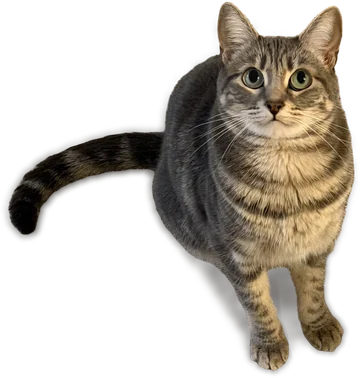
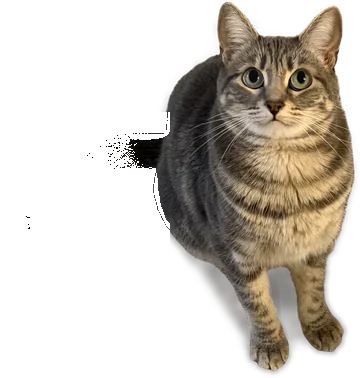
Candy shimeji: tail flick, dragging, close until reload
- Clicking or tapping anywhere makes her tail tip flick inward and settle
  back (6-frame sprite, about half a second; skipped with reduced motion).
- She can be dragged by her silhouette; clicks on the see-through parts
  of her box still reach the page below.
- The close button now hides her only until the page is reloaded.
- Fade in once the cat and both sprites have loaded.

Changed region(s): [[0.0, 0.291, 0.4889, 0.6402]]

diff --git a/_includes/candy-shimeji.html b/_includes/candy-shimeji.html
@@ -1,20 +1,34 @@
 {% include base_path %}
-<!-- Candy, a little shimeji in the bottom-right corner whose eyes follow the pointer.
-     candy.webp is the cat (2x of the display size); candy-eyes.webp holds the eye region for each gaze
-     (looking at you, then n, ne, e, se, s, sw, w, nw), side by side. -->
+<!-- Candy, a little shimeji in the bottom-right corner: her eyes follow the pointer, her tail flicks when
+     you click or tap, and she can be dragged around.
+     candy.webp is the cat (2x of the display size). The sprites hold, side by side, the eye region for each
+     gaze (looking at you, then n, ne, e, se, s, sw, w, nw) and the tail for each keyframe of the flick. -->
 <div id="candy-shimeji" class="candy-shimeji">
   <div class="candy-shimeji__cat" aria-hidden="true">
     <img src="{{ base_path }}/images/shimeji/candy.webp" width="180" height="189" alt="" decoding="async">
     <div class="candy-shimeji__eyes"></div>
+    <div class="candy-shimeji__tail"></div>
+    <div class="candy-shimeji__grab"></div>
   </div>
   <button type="button" class="candy-shimeji__close" aria-label="Hide the cat" title="Hide the cat">&times;</button>
 </div>
 <style>
-  .candy-shimeji { position: fixed; right: 8px; bottom: 0; z-index: 20; width: 180px; pointer-events: none; }
+  .candy-shimeji { position: fixed; right: 8px; bottom: 0; z-index: 20; width: 180px; pointer-events: none;
+    transition: opacity .3s; }
+  .candy-shimeji.is-loading { opacity: 0; visibility: hidden; }
   .candy-shimeji__cat { position: relative; }
   .candy-shimeji__cat img { display: block; width: 100%; height: auto; }
-  .candy-shimeji__eyes { position: absolute; left: 65%; top: 15.3439%; width: 24.4444%; height: 10.582%;
+  .candy-shimeji__eyes, .candy-shimeji__tail, .candy-shimeji__grab { position: absolute; }
+  /* sprite boxes, as % of the image */
+  .candy-shimeji__eyes { left: 65%; top: 15.3439%; width: 24.4444%; height: 10.582%;
     background: url("{{ base_path }}/images/shimeji/candy-eyes.webp") 0 0 / 900% 100% no-repeat; }
+  .candy-shimeji__tail { left: 0; top: 29.6296%; width: 47.2222%; height: 37.5661%;
+    background: url("{{ base_path }}/images/shimeji/candy-tail.webp") 0 0 / 600% 100% no-repeat; }
+  /* only the cat itself can be grabbed; clicks anywhere else in the box reach the page below */
+  .candy-shimeji__grab { left: 0; top: 0; width: 100%; height: 100%; pointer-events: auto; cursor: grab;
+    touch-action: none; -webkit-clip-path: var(--candy-outline); clip-path: var(--candy-outline);
+    --candy-outline: polygon(62.5% 0.5%, 61.1% 2.1%, 60.3% 6.3%, 61.1% 14.0%, 54.4% 17.2%, 49.4% 21.4%, 46.9% 25.9%, 45.3% 34.9%, 36.4% 34.9%, 30.0% 35.7%, 20.0% 38.6%, 13.6% 41.3%, 6.7% 46.3%, 3.9% 50.3%, 2.5% 53.7%, 3.1% 58.5%, 6.1% 61.6%, 8.1% 61.6%, 9.7% 60.1%, 11.1% 54.5%, 16.7% 49.5%, 24.4% 46.3%, 35.6% 44.4%, 42.2% 44.7%, 42.8% 45.2%, 42.5% 52.4%, 45.8% 59.8%, 52.5% 66.9%, 55.8% 68.8%, 58.9% 69.6%, 62.5% 72.5%, 65.0% 75.9%, 68.6% 83.3%, 69.7% 88.4%, 69.4% 94.4%, 72.2% 96.8%, 76.1% 97.9%, 79.4% 95.2%, 80.0% 91.0%, 74.7% 77.8%, 73.9% 72.0%, 74.4% 71.2%, 76.9% 70.4%, 79.2% 70.4%, 80.3% 71.2%, 82.5% 77.8%, 82.5% 82.0%, 84.7% 89.2%, 87.2% 91.8%, 88.9% 92.6%, 92.2% 92.9%, 94.4% 90.5%, 95.3% 87.6%, 90.0% 79.9%, 89.4% 75.4%, 90.6% 67.7%, 92.5% 65.9%, 92.8% 63.5%, 94.4% 61.1%, 95.8% 56.3%, 95.6% 55.3%, 98.1% 47.9%, 97.2% 35.4%, 95.6% 29.4%, 94.7% 28.6%, 93.9% 22.0%, 92.5% 17.7%, 94.7% 10.1%, 94.7% 4.2%, 93.1% 1.6%, 91.7% 1.6%, 88.6% 3.4%, 82.2% 9.5%, 72.5% 9.5%, 65.6% 1.6%, 63.9% 0.5%); }
+  .candy-shimeji.is-dragging .candy-shimeji__grab { cursor: grabbing; }
   .candy-shimeji__close { position: absolute; left: 6%; top: 6%; width: 22px; height: 22px; padding: 0;
     border: 0; border-radius: 50%; background: rgba(0, 0, 0, .35); color: #fff; font: 16px/22px sans-serif;
     text-align: center; cursor: pointer; opacity: .55; pointer-events: auto; transition: opacity .15s; }
@@ -25,22 +39,37 @@
 <script>
   /* Block comments only: the compress layout joins lines in production. */
   (function () {
-    var KEY = "candy-shimeji-hidden";
     var root = document.getElementById("candy-shimeji");
-    try {
-      if (sessionStorage.getItem(KEY)) { root.parentNode.removeChild(root); return; }
-    } catch (e) {}
-
     var cat = root.querySelector(".candy-shimeji__cat");
     var eyes = root.querySelector(".candy-shimeji__eyes");
-    var ORDER = ["c", "n", "ne", "e", "se", "s", "sw", "w", "nw"];   /* sprite order */
-    var SECTORS = ["e", "se", "s", "sw", "w", "nw", "n", "ne"];     /* 45-degree sectors from atan2 */
+    var tail = root.querySelector(".candy-shimeji__tail");
+    var grab = root.querySelector(".candy-shimeji__grab");
+    var closed = false;
+
+    /* show her once the cat and both sprites have loaded, so the tail never flashes missing */
+    root.classList.add("is-loading");
+    var pending = 3;
+    function loaded() { if (--pending <= 0) root.classList.remove("is-loading"); }
+    [eyes, tail].forEach(function (el) {
+      var m = /url\((['"]?)(.*?)\1\)/.exec(getComputedStyle(el).backgroundImage);
+      var pic = new Image();
+      pic.onload = pic.onerror = loaded;
+      if (m) pic.src = m[2]; else loaded();
+    });
+    var img = cat.querySelector("img");
+    if (img.complete) loaded(); else img.onload = img.onerror = loaded;
+    setTimeout(function () { root.classList.remove("is-loading"); }, 4000);
+
+    /* eyes: look toward the pointer, or at where the latest touch started */
+    var EYES = ["c", "n", "ne", "e", "se", "s", "sw", "w", "nw"];     /* sprite order */
+    var SECTORS = ["e", "se", "s", "sw", "w", "nw", "n", "ne"];       /* 45-degree sectors from atan2 */
     var ANCHOR = [0.7706, 0.2041];   /* between the eyes, as a fraction of the image */
     var DEAD_ZONE = 0.18;            /* pointer this close (x image width) means she looks at you */
     var gaze = "c", target = null, queued = false;
 
     function update() {
       queued = false;
+      if (closed) return;
       var r = cat.getBoundingClientRect();
       var dx = target[0] - (r.left + ANCHOR[0] * r.width);
       var dy = target[1] - (r.top + ANCHOR[1] * r.height);
@@ -48,7 +77,7 @@
         : SECTORS[(Math.round(Math.atan2(dy, dx) / (Math.PI / 4)) + 8) % 8];
       if (g !== gaze) {
         gaze = g;
-        eyes.style.backgroundPosition = ORDER.indexOf(g) * 12.5 + "% 0";
+        eyes.style.backgroundPosition = EYES.indexOf(g) * 12.5 + "% 0";
       }
     }
     function lookAt(x, y) {
@@ -56,19 +85,66 @@
       if (!queued) { queued = true; requestAnimationFrame(update); }
     }
 
+    /* tail: a quick inward flick of the tip when something catches her attention (a click or a tap) */
+    var TAIL = ["rest", "up1", "up2", "down1", "down2", "over"];   /* sprite order */
+    var FLICK = [["up1", 60], ["up2", 150], ["down1", 90], ["down2", 80], ["over", 110], ["rest", 0]];  /* frame, ms */
+    var REACTION_MS = 80;
+    var calm = window.matchMedia && matchMedia("(prefers-reduced-motion: reduce)").matches;
+    var flicking = false;
+    function step(i) {
+      tail.style.backgroundPosition = TAIL.indexOf(FLICK[i][0]) * 20 + "% 0";
+      if (i + 1 < FLICK.length) setTimeout(function () { step(i + 1); }, FLICK[i][1]);
+      else flicking = false;
+    }
+    function flick() {
+      if (flicking || calm || closed) return;
+      flicking = true;
+      setTimeout(function () { step(0); }, REACTION_MS);
+    }
+
     if (window.PointerEvent) {
-      /* mouse and pen: follow the pointer; touch: the point where the latest touch started */
       addEventListener("pointermove", function (e) { if (e.pointerType !== "touch") lookAt(e.clientX, e.clientY); }, { passive: true });
-      addEventListener("pointerdown", function (e) { lookAt(e.clientX, e.clientY); }, { passive: true });
+      addEventListener("pointerdown", function (e) { lookAt(e.clientX, e.clientY); flick(); }, { passive: true });
     } else {
       addEventListener("mousemove", function (e) { lookAt(e.clientX, e.clientY); }, { passive: true });
-      addEventListener("touchstart", function (e) { lookAt(e.touches[0].clientX, e.touches[0].clientY); }, { passive: true });
+      addEventListener("mousedown", function (e) { lookAt(e.clientX, e.clientY); flick(); }, { passive: true });
+      addEventListener("touchstart", function (e) { lookAt(e.touches[0].clientX, e.touches[0].clientY); flick(); }, { passive: true });
     }
-    addEventListener("resize", function () { if (target) lookAt(target[0], target[1]); });
 
+    /* drag her around by the cat itself; she stays fully on screen */
+    var drag = null;
+    function place(x, y) {
+      var r = root.getBoundingClientRect(), doc = document.documentElement;
+      root.style.left = Math.max(0, Math.min(doc.clientWidth - r.width, x)) + "px";
+      root.style.top = Math.max(0, Math.min(doc.clientHeight - r.height, y)) + "px";
+      root.style.right = root.style.bottom = "auto";
+    }
+    function drop(e) {
+      if (drag && e.pointerId === drag.id) { drag = null; root.classList.remove("is-dragging"); }
+    }
+    grab.addEventListener("pointerdown", function (e) {
+      if (e.button) return;   /* primary button, a touch or a pen only */
+      var r = root.getBoundingClientRect();
+      drag = { id: e.pointerId, dx: e.clientX - r.left, dy: e.clientY - r.top };
+      grab.setPointerCapture(e.pointerId);
+      root.classList.add("is-dragging");
+      e.preventDefault();
+    });
+    grab.addEventListener("pointermove", function (e) {
+      if (drag && e.pointerId === drag.id) place(e.clientX - drag.dx, e.clientY - drag.dy);
+    });
+    grab.addEventListener("pointerup", drop);
+    grab.addEventListener("pointercancel", drop);
+
+    addEventListener("resize", function () {
+      if (root.style.left) { var r = root.getBoundingClientRect(); place(r.left, r.top); }
+      if (target) lookAt(target[0], target[1]);
+    });
+
+    /* the close button hides her until the page is reloaded */
     root.querySelector(".candy-shimeji__close").addEventListener("click", function () {
+      closed = true;
       root.parentNode.removeChild(root);
-      try { sessionStorage.setItem(KEY, "1"); } catch (e) {}
     });
   })();
 </script>
